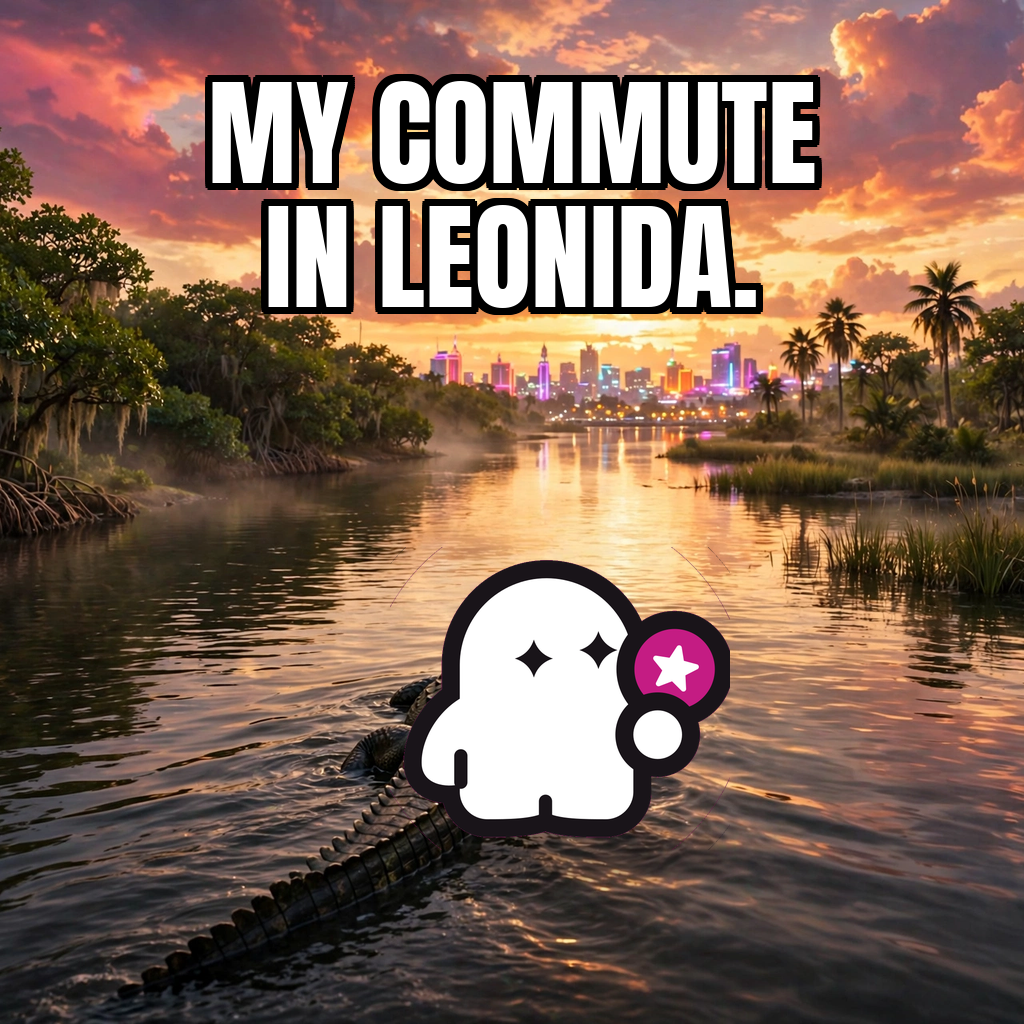
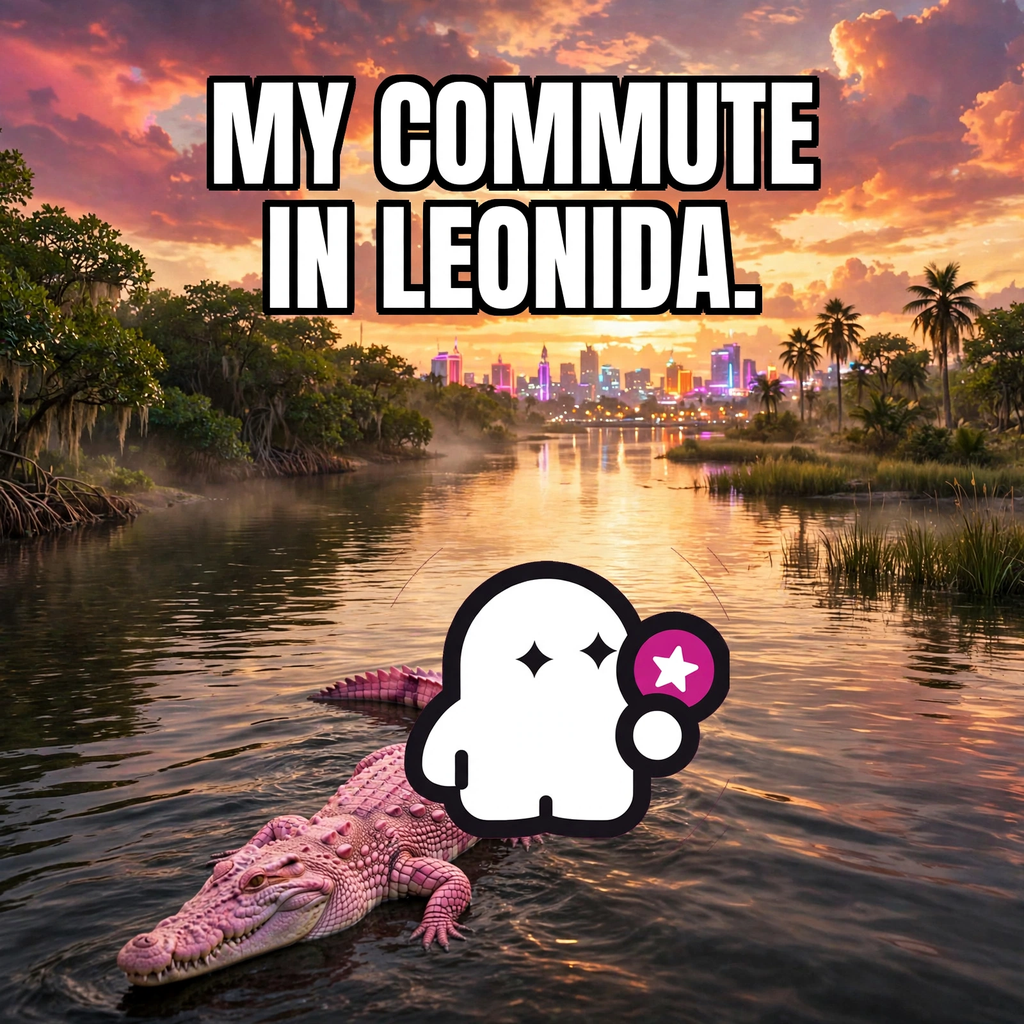
Pink alligator revision

diff --git a/README.md b/README.md
@@ -4,7 +4,7 @@
 [![rank](https://make.fun/badge/gta6-meme-x-01/gaplek15/gta6-meme-x-01/rank.svg)](https://make.fun/bounty/gta6-meme-x-01/leaderboard?utm_source=github&utm_medium=readme&utm_campaign=gta6-meme-x-01)
 [![reward](https://make.fun/badge/gta6-meme-x-01/gaplek15/gta6-meme-x-01/reward.svg)](https://make.fun/bounty/gta6-meme-x-01?utm_source=github&utm_medium=readme&utm_campaign=gta6-meme-x-01)
 
-A GTA 6 meme for [make.fun's GTA 6 meme bounty](https://make.fun/bounty/gta6-meme-x-01) ($500 in USDC, top 50). In Leonida, nobody drives to work — the make.fun ghost commutes by riding an alligator down a swamp canal at sunset, Vice City glowing on the horizon. Florida energy, zero traffic.
+A GTA 6 meme for [make.fun's GTA 6 meme bounty](https://make.fun/bounty/gta6-meme-x-01) ($500 in USDC, top 50). In Leonida, nobody drives to work — the make.fun ghost commutes by riding a bright pink alligator down a swamp canal at sunset, Vice City glowing on the horizon. Florida energy, zero traffic.
 
 ![My Commute in Leonida.](meme.png)
 
@@ -18,7 +18,7 @@ Play code: `makefun-toucan-puffin-jewel`
 
 ## How it was made
 
-The Leonida swamp canal at sunset is AI-generated; the make.fun ghost is the real press-kit mark, cut out of its magenta disc and composited onto the alligator's back with PIL (soft shadow underneath), riding it like a commute; the caption is set in Anton. The post's first picture is the meme that is judged.
+The Leonida swamp canal at sunset is AI-generated; the make.fun ghost is the real press-kit mark, cut out of its magenta disc and composited onto the alligator's back with PIL (soft shadow underneath), riding it like a commute; the alligator is bright pink — GTA 6's iconic pink — recolored in the revision at the user's request; the caption is set in Anton. The post's first picture is the meme that is judged.
 
 ## Files
 
